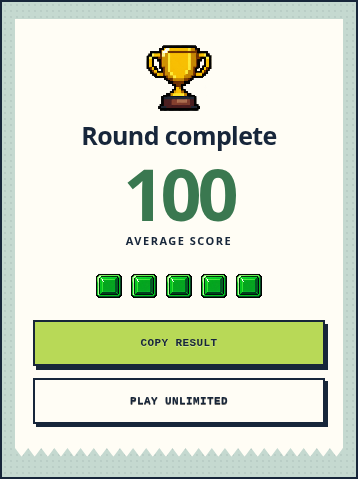
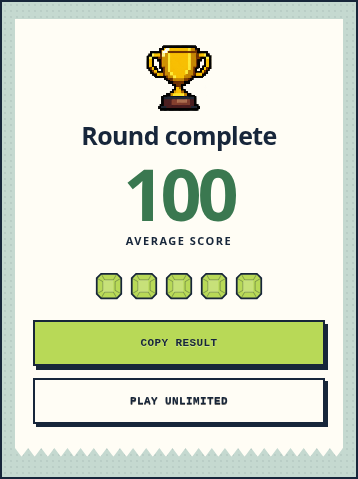
Restore Lowball's soft faceted score gems on round and final results

Changed region(s): [[0.2458, 0.5553, 0.7374, 0.643]]

diff --git a/games/lowball/engine/item-art.js b/games/lowball/engine/item-art.js
@@ -1,4 +1,4 @@
-/* Generated PNG artwork only. Source atlases and extraction manifest are in icons/generated/.
+/* Generated item PNGs and restored faceted score gems. Source atlases are in icons/generated/.
    Add a generated image and its explicit item mapping when extending the item pool. */
 (() => {
   'use strict';
@@ -108,10 +108,6 @@
   "trophy": "trophy.png",
   "lock": "lock.png",
   "stats": "stats.png",
-  "gem-green": "gem-green.png",
-  "gem-yellow": "gem-yellow.png",
-  "gem-orange": "gem-orange.png",
-  "gem-red": "gem-red.png",
   "sound-on": "sound-on.png",
   "sound-off": "sound-off.png"
 });
@@ -125,9 +121,11 @@
   function markup(item) {
     return '<img class="lowball-art" src="' + source(item) + '" alt="" width="192" height="192" decoding="async" draggable="false">';
   }
+  // Restore the original Break Room cut-corner gems from the first visual refresh.
+  // Both round results and the final score use this shared renderer.
   function gem(score, index) {
-    const colour = score >= 95 ? 'green' : score >= 80 ? 'yellow' : score >= 50 ? 'orange' : 'red';
-    return '<img class="gem" src="' + source('gem-' + colour) + '" style="--i:' + index + '" alt="" width="28" height="28" draggable="false">';
+    const colour = score >= 95 ? '#b8d957' : score >= 80 ? '#f9d883' : score >= 50 ? '#e9a16a' : '#ee8578';
+    return `<svg class="gem" style="--i:${index}" viewBox="0 0 32 32" aria-hidden="true" focusable="false"><path d="M7 2H25L30 7V25L25 30H7L2 25V7Z" fill="${colour}" stroke="#17263a" stroke-width="2"/><path d="M7 2L11 9H21L25 2M30 7L23 11V21L30 25M25 30L21 23H11L7 30M2 25L9 21V11L2 7" fill="none" stroke="#17263a" stroke-opacity=".4"/><path d="M11 9H21V23H9V11Z" fill="#fffdf5" opacity=".22"/></svg>`;
   }
   window.LOWBALL_ART = Object.freeze({source, markup, gem, items, utilities});
 })();

diff --git a/games/lowball/engine/break-room-engine.css b/games/lowball/engine/break-room-engine.css
@@ -33,3 +33,6 @@ body{min-height:0}.sound-btn{grid-column:1/-1;font:700 12px 'Courier New',monosp
 .icon-btn .lowball-art{width:22px;height:22px;margin:0}.icon-btn #statsArt{display:block}
 .sound-btn{display:flex;align-items:center;justify-content:center;gap:7px;opacity:1}
 .sound-btn .lowball-art{width:22px;height:22px;margin:0}
+
+/* Faceted score gems keep crisp vector edges alongside the generated item art. */
+.squares svg.gem{image-rendering:auto}

diff --git a/README.md b/README.md
@@ -114,3 +114,7 @@ Lowball's active playing surface is styled by `games/lowball/engine/counter.css`
 Stake's active surface is styled by `games/stake/table.css`: textured green felt with a stitched edge, paper question cards and category tabs, a three-chip betting dock, and chip-stack feedback. The countdown is integrated into the question card and turns coral in the last ten seconds. The score tally, 30-second deadline, timeout penalties, Daily/Unlimited state, and shared popup design remain intact. Chips stay circular at every screen width. Keyboard betting/answering retains focus inside the game, and the mode tabs support arrow keys, Home, and End.
 
 Short stepped entrance, receipt, stamp, and chip animations respect reduced-motion preferences. Previews of play, receipt, review, timeout, and final-score states are in `design/previews/game-polish/`. Run `tests/game-surfaces.cjs` against the local server for keyboard, responsive layout, long-question, chip-shape and reduced-motion checks. Continue to use `tests/smoke.cjs`, `tests/lowball-art.cjs`, `tests/stake-timer.cjs`, and `tests/stake-sharing.cjs` for gameplay, image coverage, persistence and sharing.
+
+### Restored Lowball score gems
+
+Lowball's round and final results use the original Break Room cut-corner, faceted score gems again: soft green, yellow, orange, and coral. The shared `LOWBALL_ART.gem()` renderer restores the exact earlier design and preserves existing tier thresholds and animations. Item illustrations and the trophy, lock, stats, and sound icons remain generated PNGs. The glossy square gem PNGs are archived with their source atlas but no longer mapped into the game.

diff --git a/VALIDATION.md b/VALIDATION.md
@@ -95,3 +95,7 @@ This update replaces the preceding code-drawn SVG illustrations with actual gene
 - `tests/game-surfaces.cjs`: passed at 320/390/768/1440px; currency stays inside the till, receipt fills the playing area, keyboard-only price/round progression and Stake betting/answering work, all three chips are circular, mode-arrow keys work, the longest bank question wraps, chip stacks reflect the bet, and reduced motion disables new animations.
 - Actual game previews saved under `design/previews/game-polish/`, including Lowball's counter/receipt/final screen and Stake's betting/question/win/urgent timer/timeout/final screens. Screenshot runs use isolated browser storage.
 - Tested using a local HTTP server; no public-host deployment was performed.
+
+### Lowball gem restoration — 19 October 2026
+
+Restored the exact cut-corner, softly coloured faceted gems from the initial Break Room visual refresh. Round and final scores share the restored renderer; the glossy square PNGs are no longer mapped into the game. `tests/lowball-art.cjs` passed for all four gem tiers on both round and final screens, all 100 item PNGs, the five remaining active utility PNGs, sound settings, and four responsive widths. Updated mobile receipt/final previews show the restored gems.
